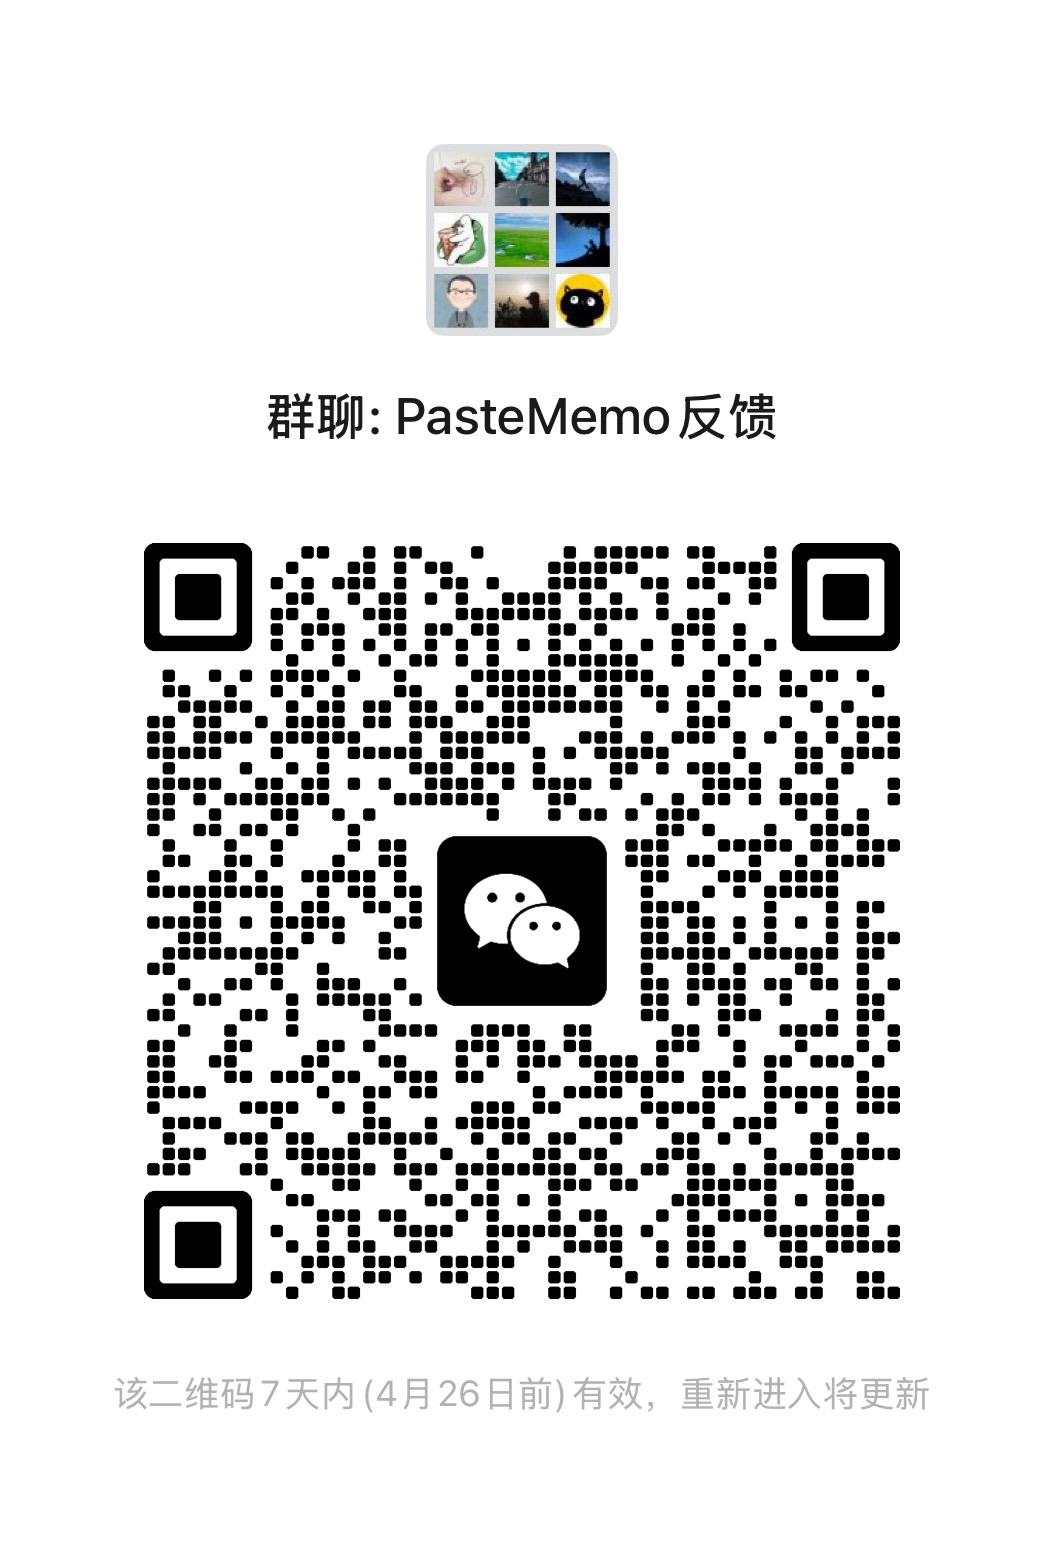
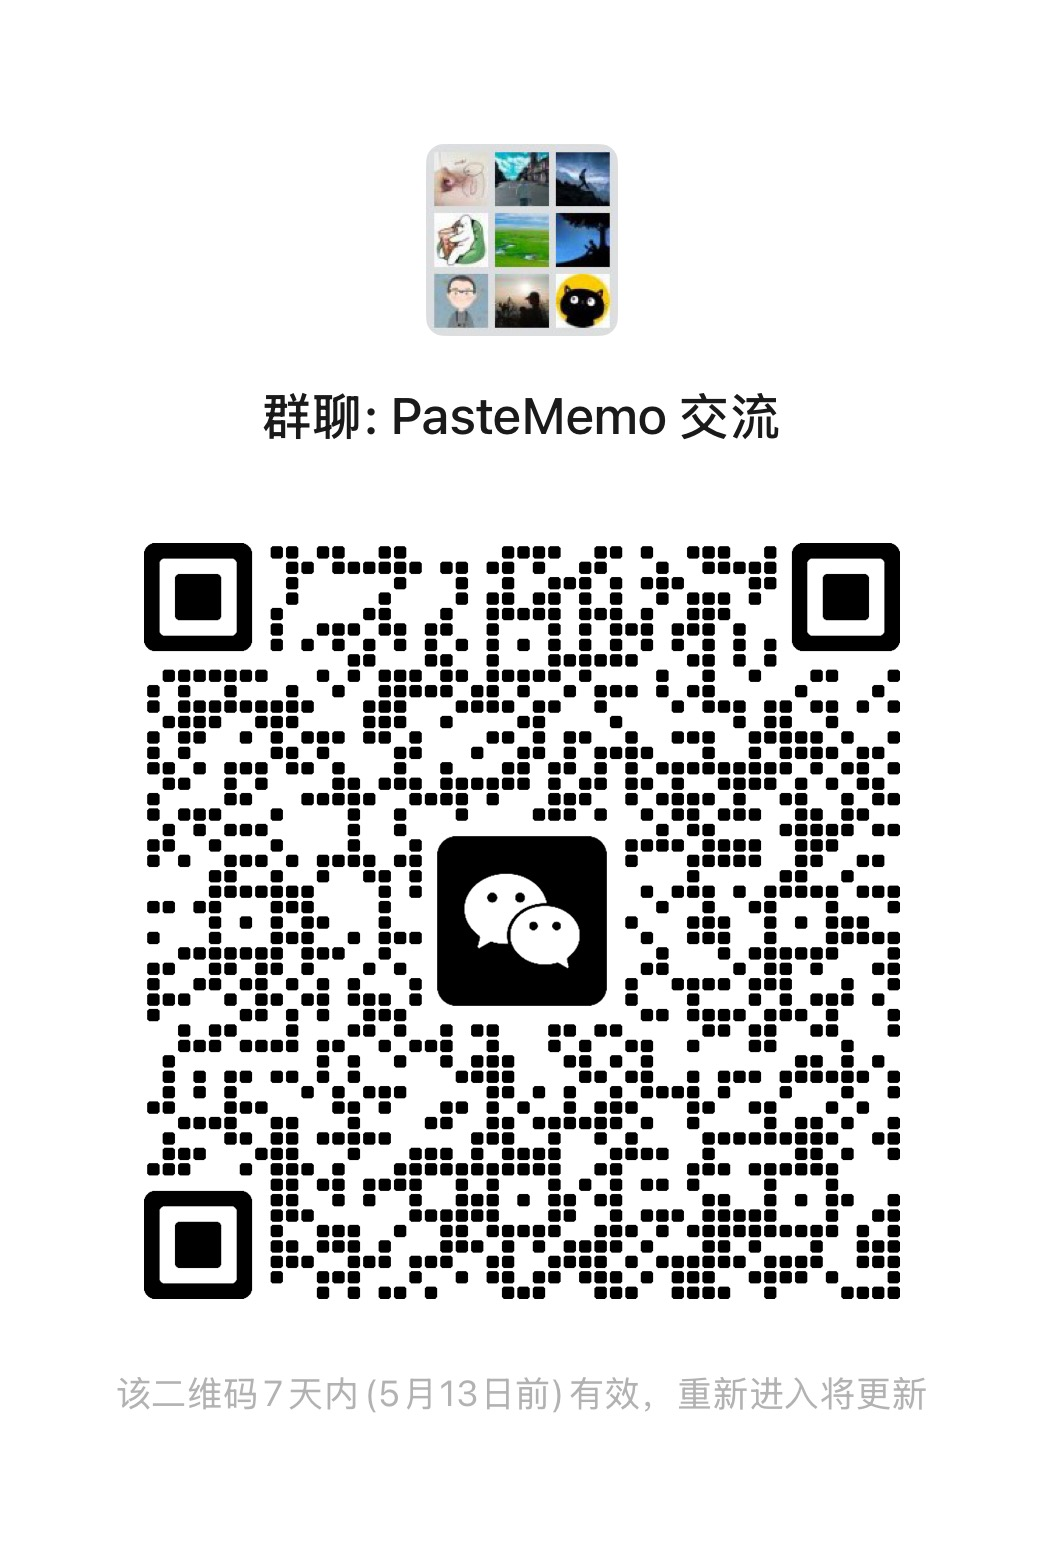
chore(site): rotate WeChat group QR (valid until 2026-05-13)

diff --git a/index.html b/index.html
@@ -1114,7 +1114,7 @@
 <div id="betaModal" class="beta-modal-overlay" onclick="if(event.target===this)this.classList.remove('active')">
   <div class="beta-modal">
     <button class="beta-modal-close" onclick="document.getElementById('betaModal').classList.remove('active')">&times;</button>
-    <img src="https://cdn.jsdelivr.net/gh/lifedever/images@master/it/2026/04/20260419-160301.jpeg" alt="Feedback Group QR Code">
+    <img src="https://cdn.jsdelivr.net/gh/lifedever/images@master/it/2026/05/20260506-130305.jpeg" alt="Feedback Group QR Code">
     <p data-i18n="beta.hint">Scan to join the beta testing WeChat group</p>
   </div>
 </div>
